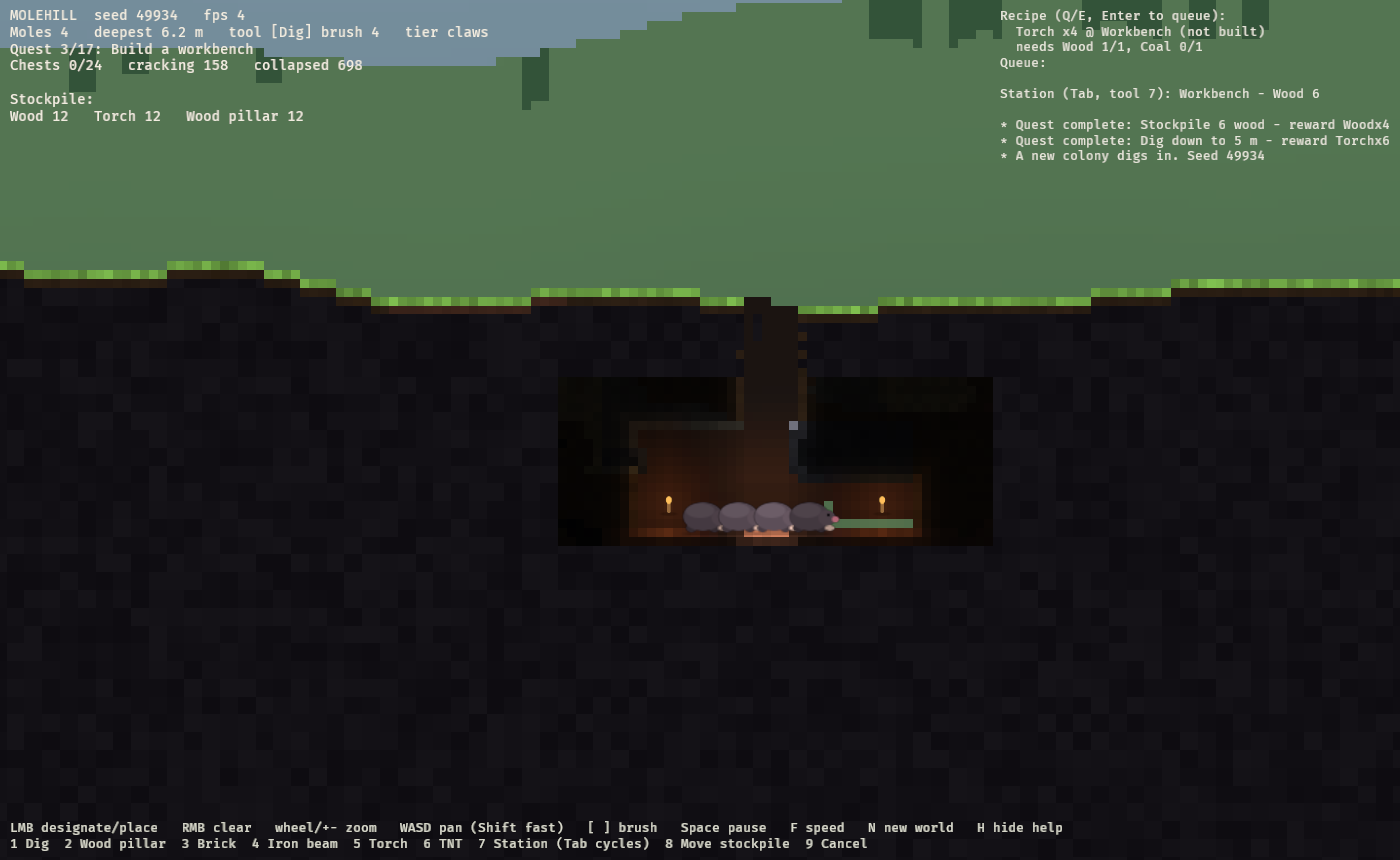
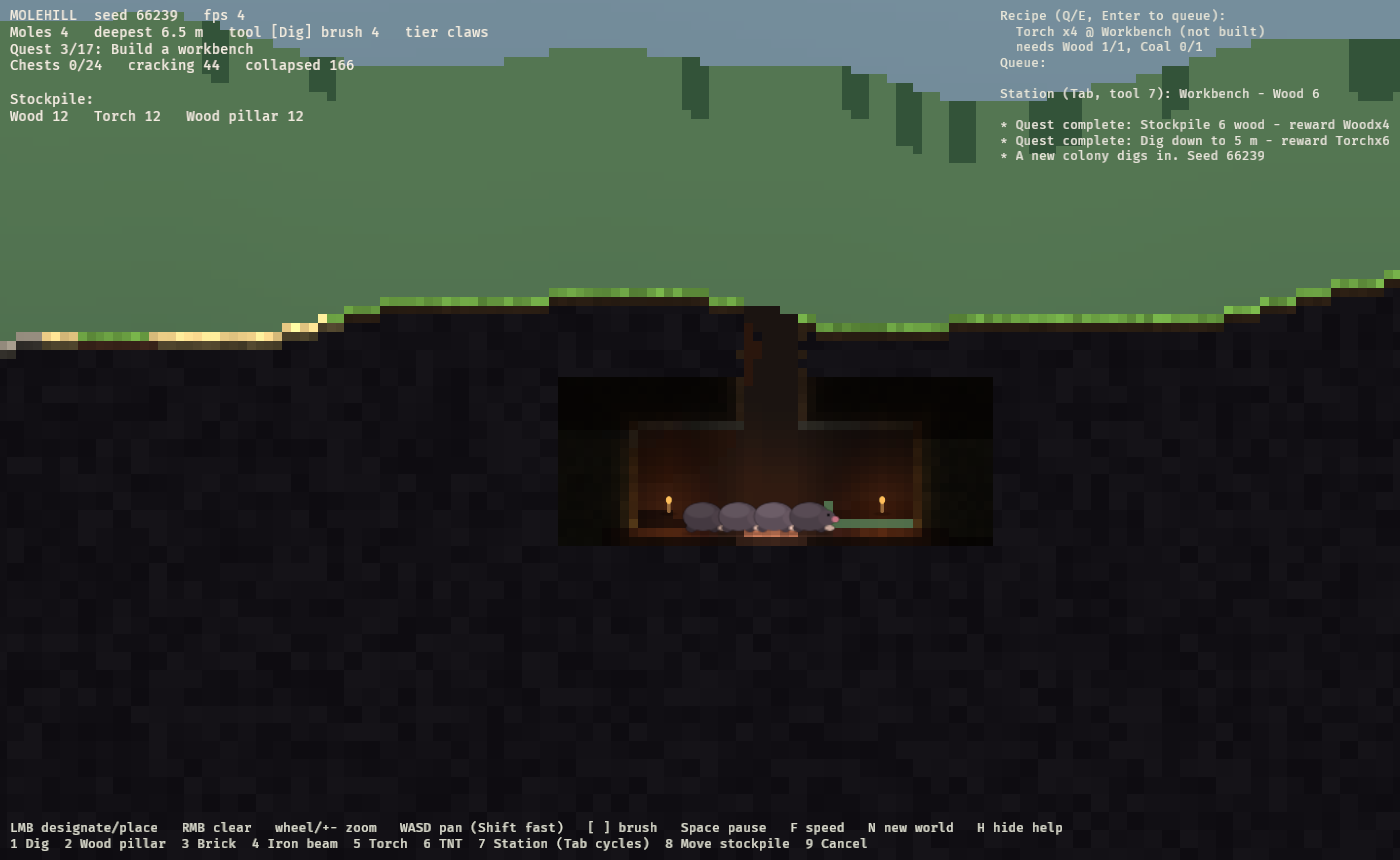
sim: quenched lava becomes loose scoria; fresh worlds <0.1% collapse in 2 min (settle example + test)

diff --git a/engine/sim/src/grid.rs b/engine/sim/src/grid.rs
@@ -142,7 +142,8 @@ impl Grid {
                 if m == Mat::Lava {
                     for n in self.n4(x, y) {
                         let nm = self.m(n);
-                        if nm == Mat::Water { self.mat[i] = Mat::Basalt as u8; self.flags[i] = 0; self.mat[n] = Mat::Steam as u8; self.life[n] = 90; self.moved[i] = stamp; self.moved[n] = stamp; self.wake(x, y); self.reactions.store(1, Relaxed); return; }
+                        // quenched lava shatters into loose scoria (F_LOOSE) instead of a free-floating crust
+                        if nm == Mat::Water { self.mat[i] = Mat::Basalt as u8; self.flags[i] = F_LOOSE; self.mat[n] = Mat::Steam as u8; self.life[n] = 90; self.moved[i] = stamp; self.moved[n] = stamp; self.wake(x, y); self.reactions.store(1, Relaxed); return; }
                         if matches!(nm, Mat::WoodBeam | Mat::Roots | Mat::Fungus | Mat::Coal | Mat::Door) && self.rnd(x, y, 4) % 40 == 0 { self.mat[n] = Mat::Fire as u8; self.life[n] = 70; self.reactions.store(1, Relaxed); }
                     }
                     if self.rnd(x, y, 5) % 10 >= 3 { self.wake(x, y); return; } // viscous

diff --git a/engine/sim/examples/settle.rs b/engine/sim/examples/settle.rs
@@ -1,0 +1,17 @@
+use molehill_sim::world::World;
+use molehill_sim::mat::Mat;
+fn main() {
+    let seeds: Vec<u32> = std::env::args().skip(1).map(|s| s.parse().unwrap()).collect();
+    let seeds = if seeds.is_empty() { vec![9630, 49934, 1, 777, 31337] } else { seeds };
+    for s in seeds {
+        let t = std::time::Instant::now();
+        let mut w = World::new(1024, 512, s);
+        let solid = (0..w.g.mat.len()).filter(|&i| w.g.is_static(i)).count();
+        let mut hist = std::collections::BTreeMap::new();
+        for k in 0..7200 { let before = w.g.mat.clone(); let c0 = w.crumbled; w.step();
+            if w.crumbled > c0 { for i in 0..before.len() { if before[i] != w.g.mat[i] && w.g.is_static(i) == false && before[i] != 0 { } } let _=k; }
+            if k % 1200 == 0 { for &i in &w.st.cracking { *hist.entry((format!("{:?}", Mat::from_u8(w.g.mat[i as usize])), i as usize / 1024 / 64)).or_insert(0) += 1; } }
+        }
+        println!("seed {s}: crumbled {} / {solid} = {:.3}%  ({:?}) cracking-by(mat,y/64): {:?}", w.crumbled, 100. * w.crumbled as f64 / solid as f64, t.elapsed(), hist);
+    }
+}

diff --git a/engine/sim/tests/sim.rs b/engine/sim/tests/sim.rs
@@ -60,3 +60,12 @@ fn slab(m: Mat, span: usize, thick: usize) -> (Grid, Vec<u32>) {
     let stocked: u32 = [Item::Dirt, Item::Clay, Item::Stone, Item::Sand, Item::Gravel].iter().map(|&i| w.inv[i as usize]).sum();
     assert!(stocked > 0 || !w.drops.is_empty(), "digging yields items");
 }
+
+#[test]
+fn fresh_world_does_not_collapse() {
+    // 2 minutes at 60 tps with no player action: < 1% of static cells may crumble.
+    let mut w = molehill_sim::world::World::new(1024, 512, 777);
+    let solid = (0..w.g.mat.len()).filter(|&i| w.g.is_static(i)).count();
+    for _ in 0..7200 { w.step(); }
+    assert!((w.crumbled as f64) < 0.01 * solid as f64, "crumbled {} of {}", w.crumbled, solid);
+}
